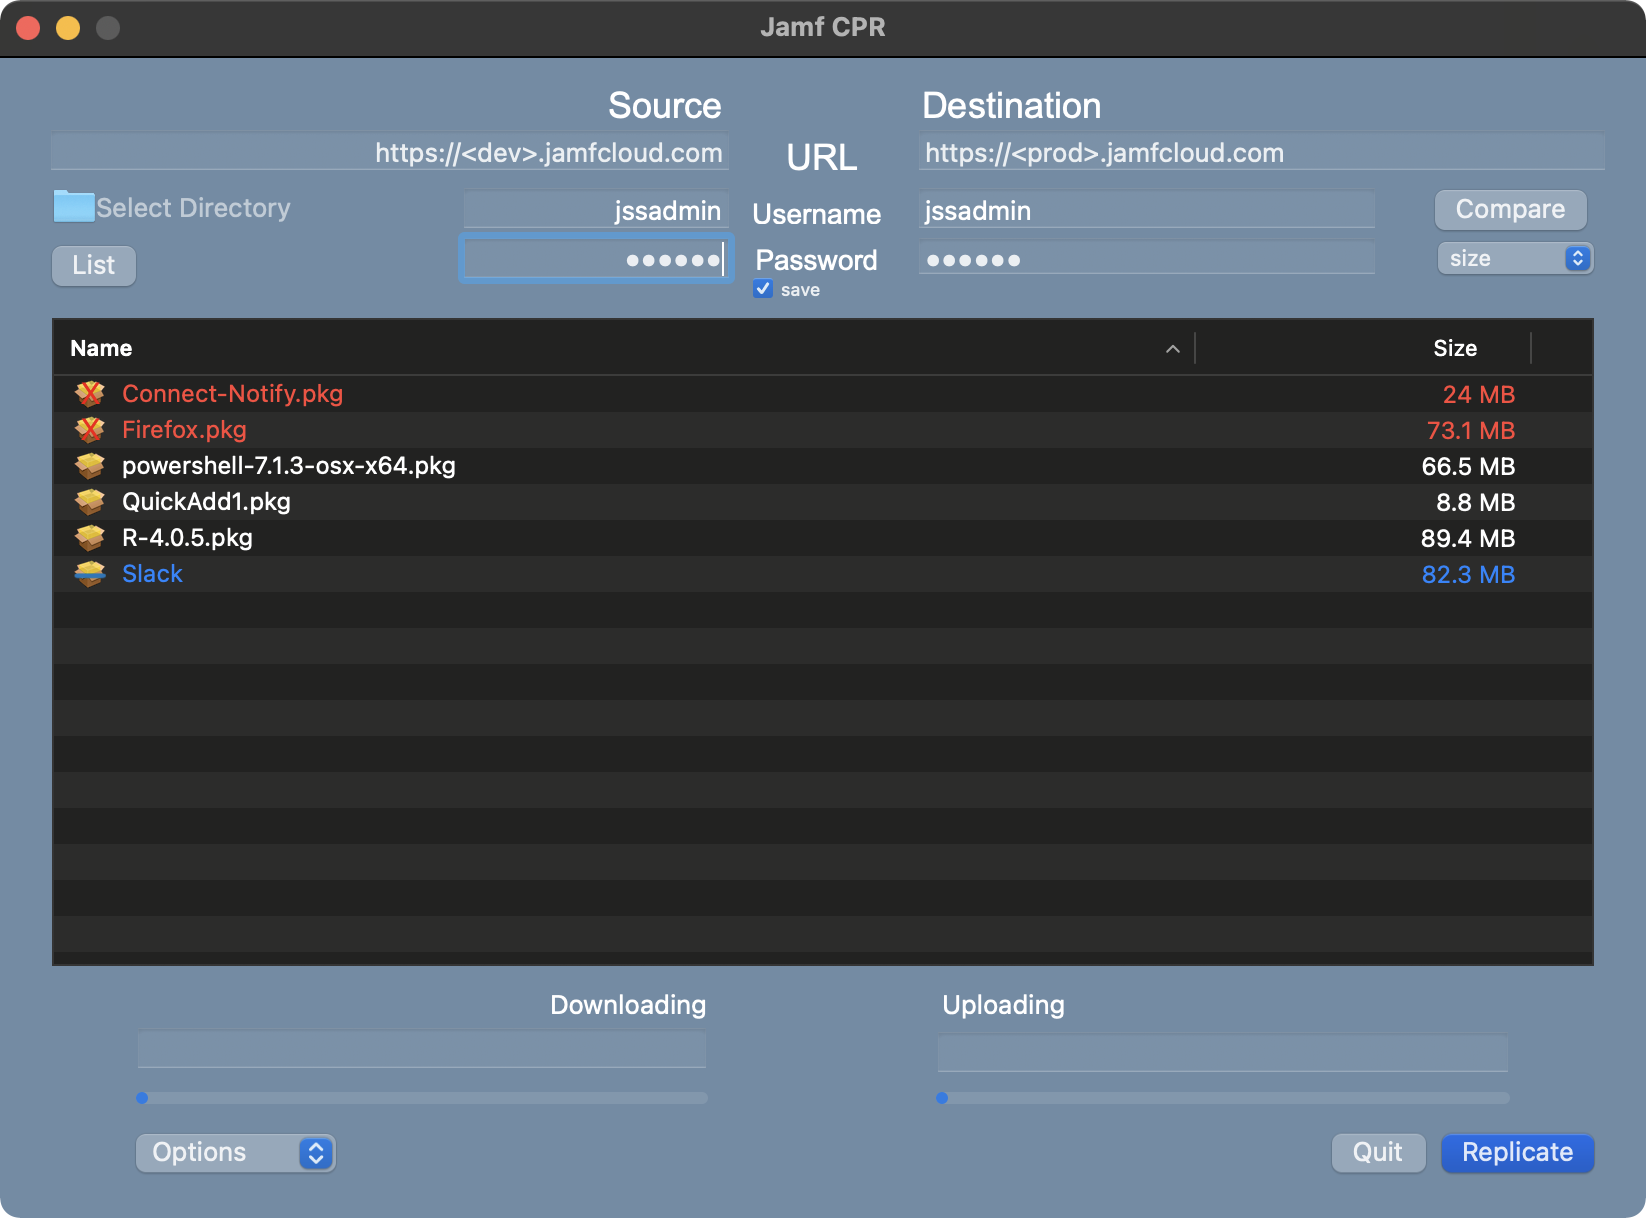
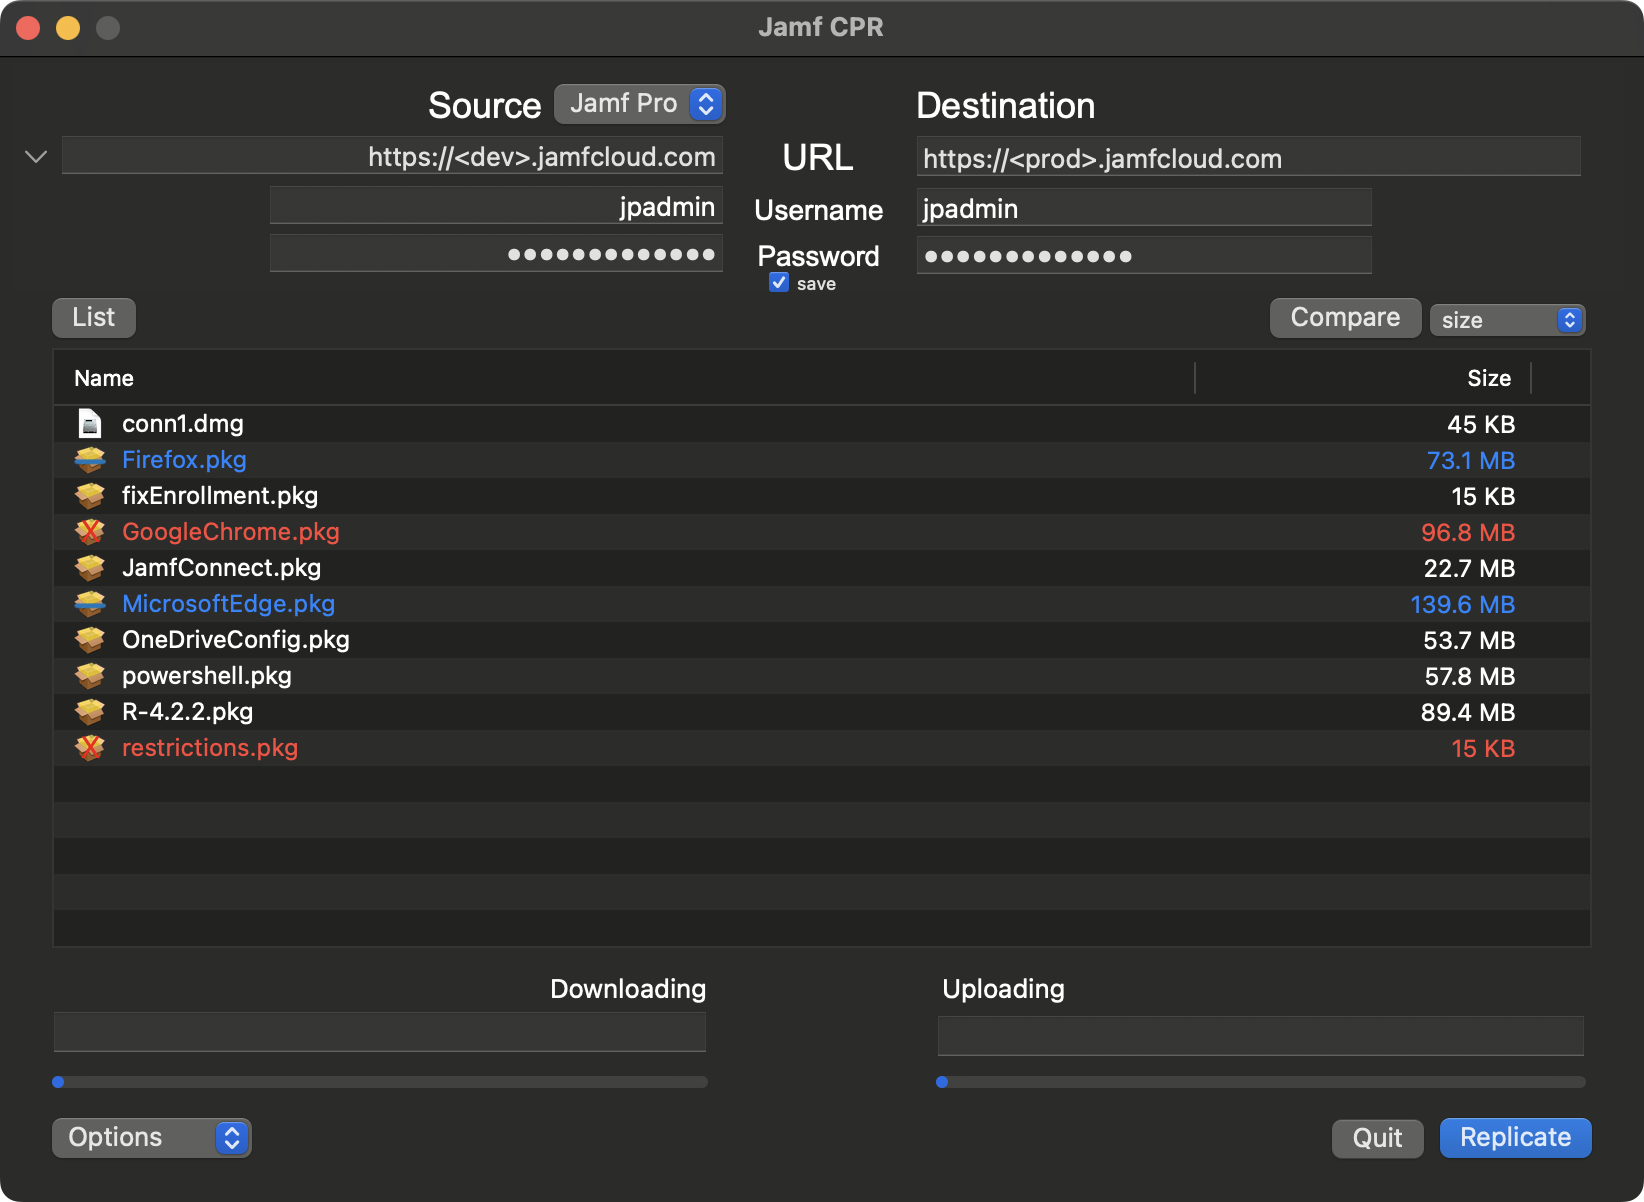
update images/readme

diff --git a/README.md b/README.md
@@ -15,11 +15,12 @@ In addition, verify connectivity if no packages have been uploaded.
 You're able to replicate packages using the following:
 
 * Browse to a local directory or mounted share.
-* Enter the URL of a Jamf Server with an on premise distribution point (DP) as the master.  Click the List button and the DP is mounted and available packages are displayed.
-* Enter the URL of a Jamf Server with a JCDS as the master in the Source URL field.  Click the List button and available packages on the JCDS will be listed.
-* Hold the option key while clicking the List button to select a non-master distribution point to replicate from.
+* Enter the URL of a Jamf Server with an on premise distribution point (DP) as the primary.  Click the List button and the DP is mounted and available packages are displayed.
+* Enter the URL of a Jamf Server with a JCDS as the primary in the Source URL field.  Click the List button and available packages on the JCDS will be listed.
+* Hold the option key while clicking the List button to select a non-primary distribution point to replicate from.
 
 ![alt text](./images/select.png "select")
+* Holding the option key again while clicking the List button will hide the Select button and revert back to the primary distribution point.
 <br><br>
 
 Be aware you may need to approve access to mounted/network volumes if that is where the packages reside.
@@ -57,6 +58,8 @@ Note, percents shown represent percent of current file being uploaded/downloaded
 Application log is available in ~/Library/Logs/jamfcpr/.  You can quickly access the logs folder from the menu bar, View --> Show Logs or ⌘ L.
 
 ## History
+
+- 2022-11-19 v3.5.0:  Fix issue with bearer token only authentication to the Classic API.  Changes to the UI, ability to hide username/password fields.  Modify permissions check, user needs User Jamf Admin and Save With Jamf Admin privileges to migrate packages.  Add information (when it was uploaded, account used to upload, and that is was uploaded with jamfCPR) to the Notes section for a package in Jamf Pro.
 
 - 2022-07-18 v3.3.4:  Resolve issue with international characters and crash when clicking on an empty list of packages; issue #12.
 
